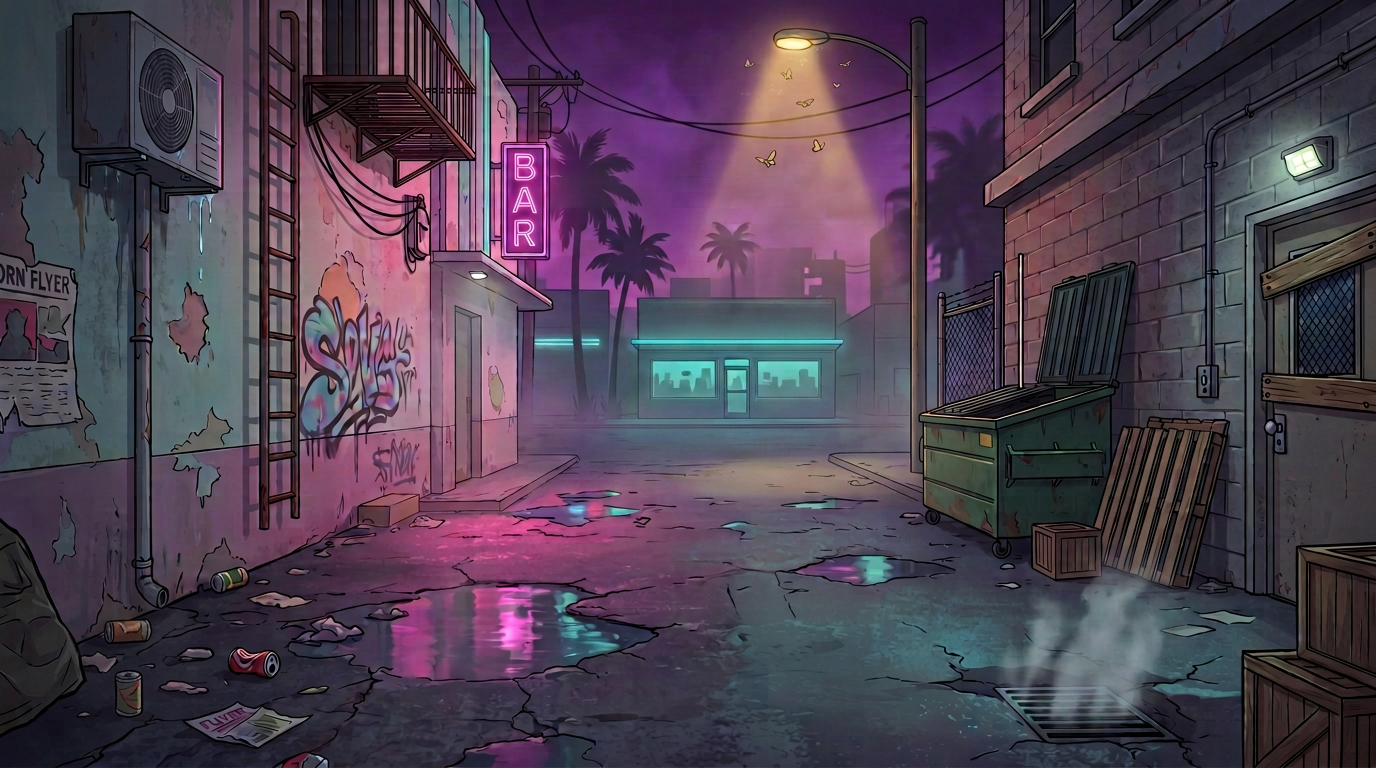
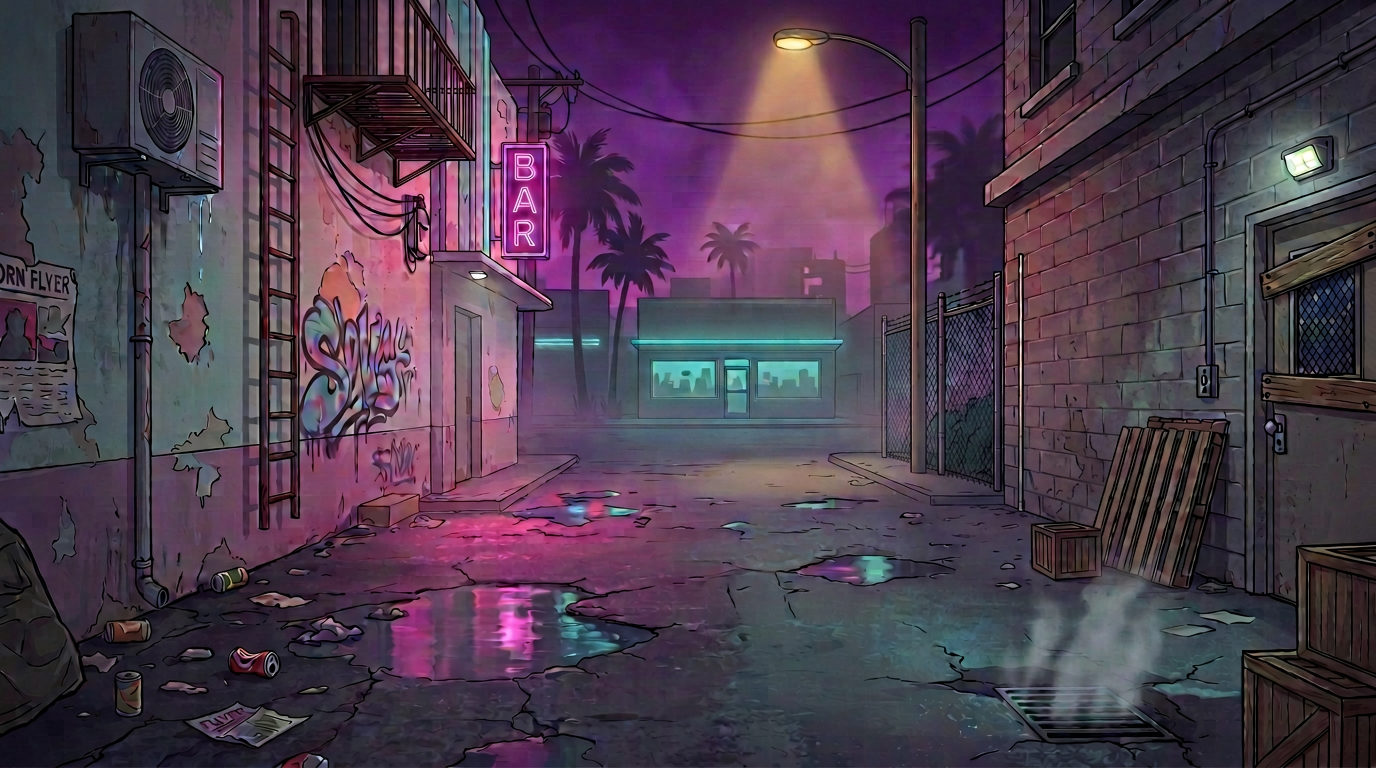
New clean scene backdrop, recalibrated perspective FL + dScale, bins code-only right-wall placement

diff --git a/index.html b/index.html
@@ -168,12 +168,12 @@ loadImg('naomi_backq_b',  'assets/naomi_backq_b.png');
 loadImg('naomi_squat',    'assets/naomi_squat.png');
 
 // ─── Perspective floor definition ─────────────────────────────────────────────
-// The alley floor is a trapezoid. Top = far from camera (narrow). Bot = near (wide).
-// These values are tuned to match the scene image's vanishing lines.
+// Calibrated against the Miami alley backdrop:
+// Vanishing point ~center at y≈52%, left wall converges harder than right.
 const FL = {
-  topY: VH * 0.555, botY: VH * 0.96,   // Y range of playable floor
-  topXL: VW * 0.28, topXR: VW * 0.72,  // left/right edge at far end
-  botXL: VW * 0.04, botXR: VW * 0.96,  // left/right edge at near end
+  topY: VH * 0.52,  botY: VH * 0.97,   // floor y range (far → near)
+  topXL: VW * 0.36, topXR: VW * 0.64,  // alley mouth at far end (narrow)
+  botXL: VW * 0.00, botXR: VW * 1.00,  // full width at near camera
 };
 
 // World → screen. wx=0..1 (left→right on floor), wz=0..1 (far→near = small→big)
@@ -184,8 +184,8 @@ function w2s(wx, wz) {
   return { x: lx + wx * (rx - lx), y: sy };
 }
 
-// Depth scale: far=0.28, near=1.15  (GTA-style dramatic depth)
-function dScale(wz) { return lerp(0.28, 1.15, wz); }
+// Depth scale: far=0.22 (tiny at vanishing point), near=1.20 (fills frame)
+function dScale(wz) { return lerp(0.22, 1.20, wz); }
 
 // Overhead squish: simulates camera looking down at ~40° angle
 const SQUISH = 0.66;
@@ -363,15 +363,14 @@ const CAR = {
 };
 
 // ─── Dumpster world anchors ───────────────────────────────────────────────────
-// A = left bin (closer to camera), B = right bin (slightly further back)
-const DUMP_A = { wx: 0.60, wz: 0.44 };
-const DUMP_B = { wx: 0.77, wz: 0.37 };
+// Right side of alley against the wall — two bins side by side
+const DUMP_A = { wx: 0.72, wz: 0.48 };  // left/closer bin
+const DUMP_B = { wx: 0.87, wz: 0.40 };  // right/further bin against wall
 
-// Physical obstacle footprints — characters cannot enter these rectangles
-// Sized to match actual bin silhouettes (~0.25 wx wide, ~0.07 wz deep)
+// Physical obstacle footprints
 const OBSTACLES = [
-  { id:'binA', wxMin:0.47, wxMax:0.72, wzMin:0.36, wzMax:0.52 },
-  { id:'binB', wxMin:0.67, wxMax:0.89, wzMin:0.28, wzMax:0.44 },
+  { id:'binA', wxMin:0.60, wxMax:0.82, wzMin:0.38, wzMax:0.57 },
+  { id:'binB', wxMin:0.77, wxMax:0.97, wzMin:0.30, wzMax:0.49 },
 ];
 
 // Slide character around obstacles — called after every movement update
@@ -395,7 +394,7 @@ function resolveObstacles(newWx, newWz, prevWx, prevWz) {
 // ─── Cover zones (world space) ────────────────────────────────────────────────
 // Detection immunity: in front of bins (wz > bin) or behind bins (wz < bin)
 const COVERS = [
-  { wxMin: 0.47, wxMax: 0.92, wzMin: 0.28, wzMax: 0.68, name:'dumpster' },
+  { wxMin: 0.58, wxMax: 0.98, wzMin: 0.30, wzMax: 0.70, name:'dumpster' },
   { wxMin: 0.00, wxMax: 0.10, wzMin: 0.10, wzMax: 0.65, name:'fire_escape' },
 ];
 
